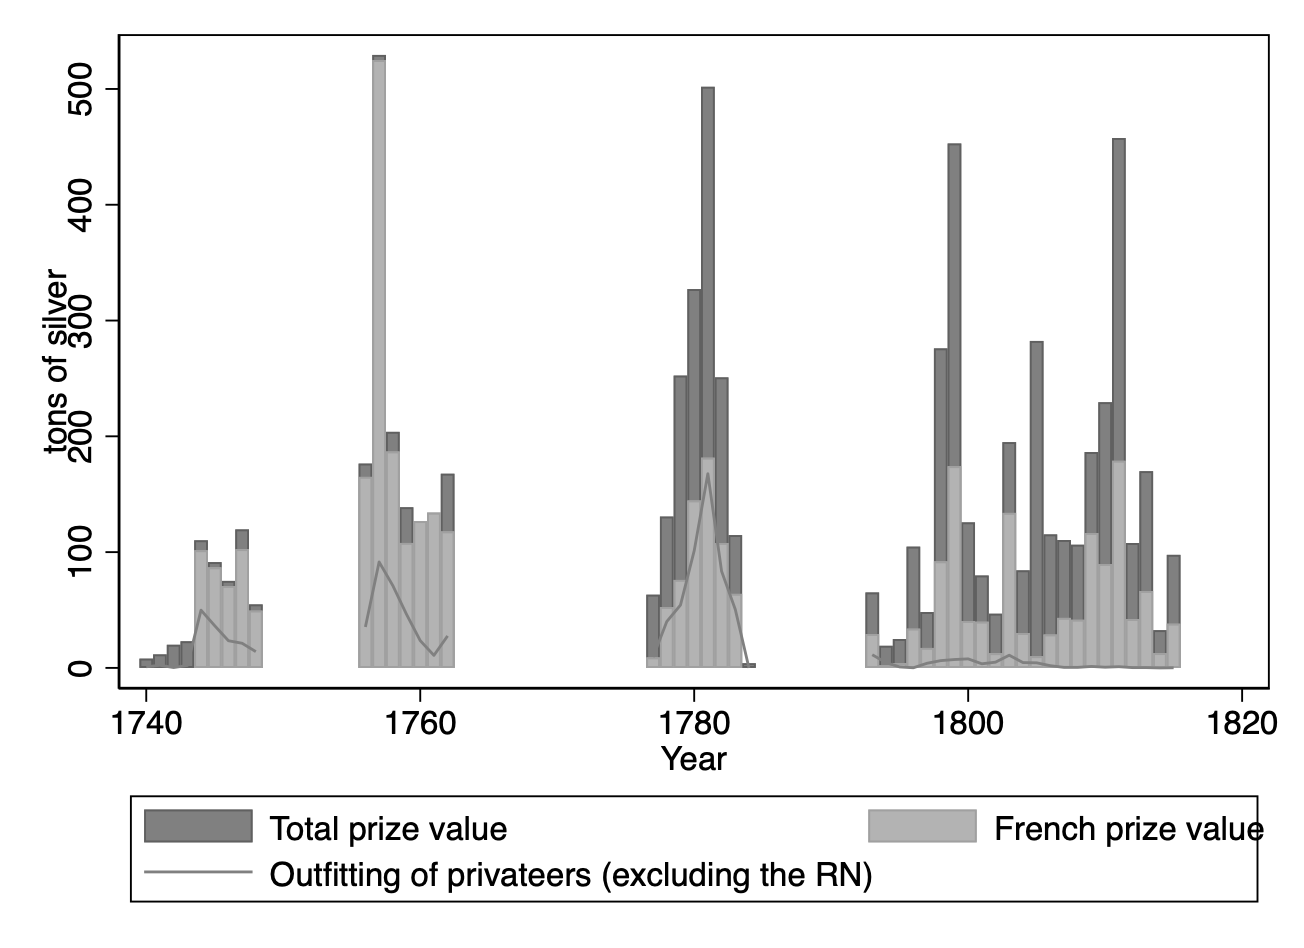
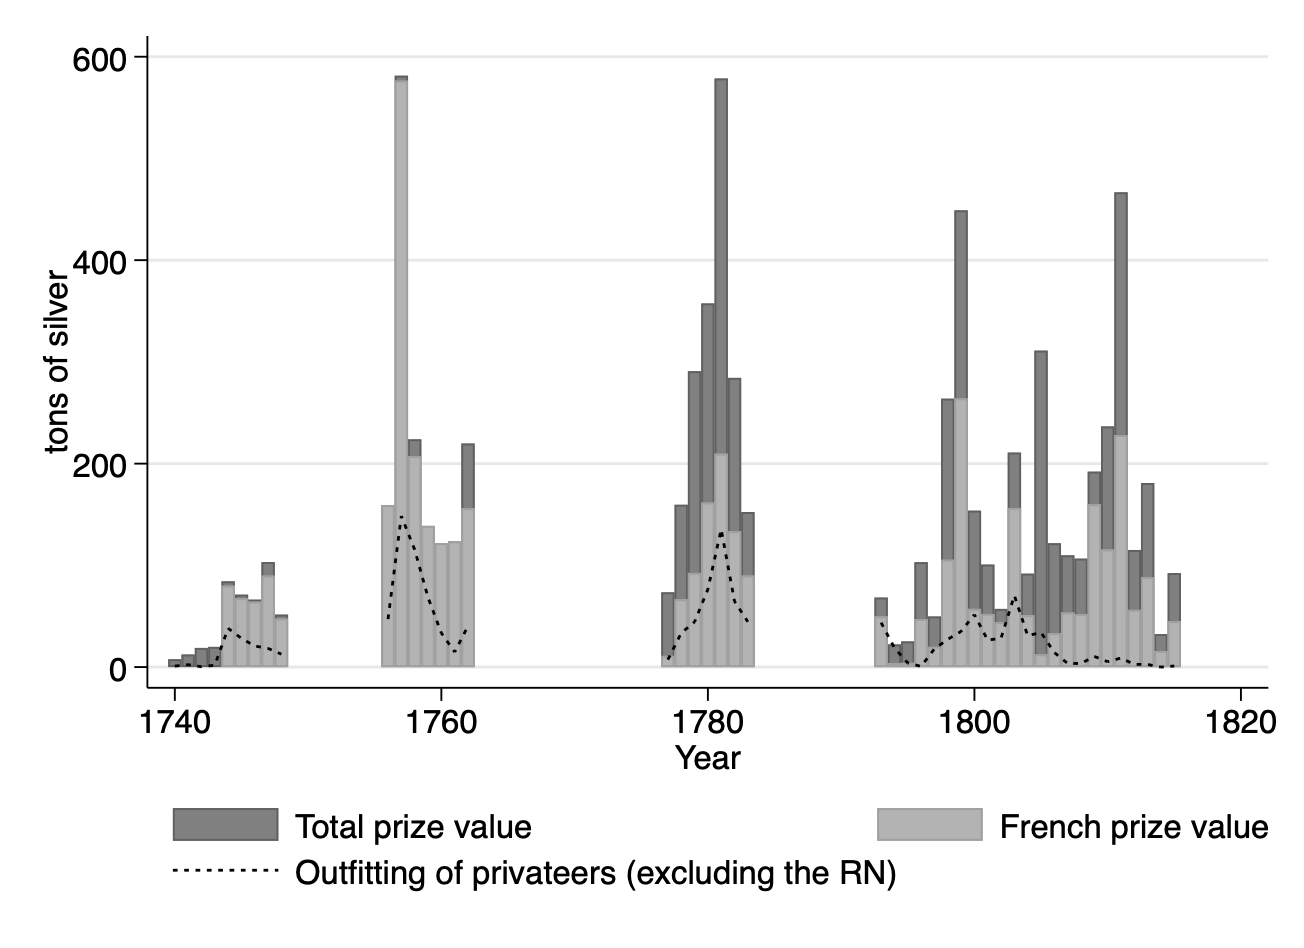
Change in value computations

diff --git a/Paper - Impact of War/Paper/How to wage a trade war.tex b/Paper - Impact of War/Paper/How to wage a trade war.tex
@@ -1115,11 +1115,13 @@ Data from these sources are summarised in figure \ref{Prizes}.
 	\end{minipage}
 \end{figure}
 
-Data on the value of privateers’ prizes come from \cite{Hillmann2011}.
-For post-1793 Royal Navy prizes, we use the data from \cite{Benjamin2009, figure 2}, based on \cite{Hill1998}, reflated using the silver value of the pound sterling.
-We have rescaled the graph to get a total of 30.8 million pounds. 
+Data on the gross value of privateers’ prizes come from \cite{Hillmann2011}, reflated by McCusker’s Composite Commodity Price Index  \citep{McCusker2001, Table D-1, column 4} (reference year: 1700) to obtain nominal values.
+\todo[inline, color = RoyalBlue]{Need to check if the deflator in McCusker’s 1978 book quoted by Hillmann is the same}
+For post-1793 Royal Navy prizes, we use the data from \cite{Benjamin2009, figure 2}, based on \cite{Hill1998}, reflated using McCusker’s Composite Commodity Price Index (reference year: 1804).
+This is imperfect because Benjamin used the payment year rather than the capture year to deflate his numbers, but we do not have access to that data.
+We have rescaled the graph to get a gross total of 30.8 million pounds (notice that Benjamin gives an net total of 26.6 million pounds). 
 These data include warship prizes, which are more expensive than trade ships.
-We have no basis to adjust this number and thus we do no try.
+We have no basis to adjust this number.
 Quite arbitrairly, we assume investment by British privateers was the same share of the value prizes as the French during their War of Austrian Succession (i.e. 59\%) and we adjust for the other wars using the prizes over vessels ration given by  \cite{Hillmann2011, table 6}. 
 
 \subsection{British policy toward neutral trade}\label{app:appendix_neutral_policy}
